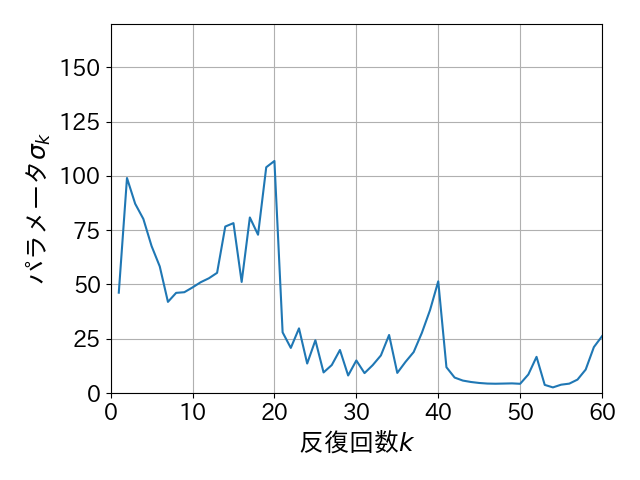
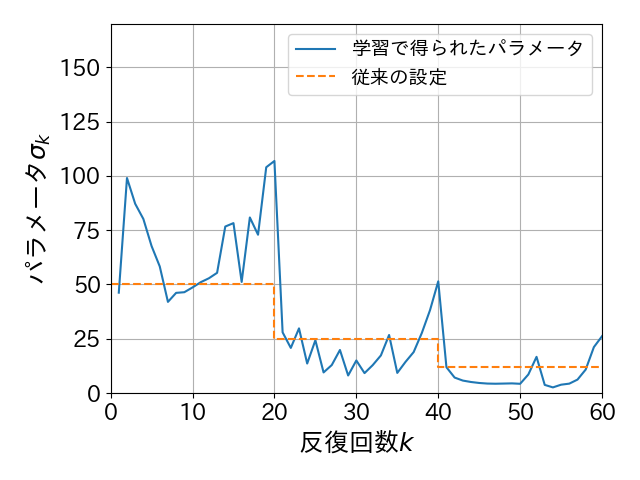
[fix] file
fix file

diff --git a/make_param_graph_ver2.py b/make_param_graph_ver2.py
@@ -19,8 +19,8 @@ def show_sigma(p):
 def show_param(p):
     return relu(p)
 
-projmeth = 'admm'
-accelerate = False
+projmeth = 'gap'
+accelerate = True
 if accelerate:
     datanames = [
         'ex_davis_method1_acc', 'davis_acc_train_add_noise', 'davis_acc_train_add_noise5'
@@ -45,12 +45,15 @@ for n, dataname in enumerate(datanames):
     # print(data.iloc[-1])
     if not os.path.exists(gragh_path):
         os.makedirs(gragh_path)
-        
+    
     plt.rcParams["font.size"] = 16
     x = [i+1 for i in range(60)]
+    y = [50,50,25,12]
+    x2 = [0,20,40,60]
     fig = plt.figure(n)
     if parameter_name == "sigma":
-        plt.plot(x, show_sigma(data.iloc[-1]), linestyle = "-")
+        plt.plot(x, show_sigma(data.iloc[-1]), linestyle = "-", label = '学習で得られたパラメータ')
+        plt.step(x2, y, linestyle = "--", label = '従来の設定')
         # plt.plot(show_sigma(data.iloc[403]), linestyle = "-")
     else:
         plt.plot(x, show_param(data.iloc[-1]), linestyle = "-")
@@ -60,6 +63,7 @@ for n, dataname in enumerate(datanames):
     plt.xlim([0, 60])
     plt.xlabel("反復回数$k$", fontsize=18)
     plt.ylabel("パラメータ$\sigma_k$", fontsize=18)
+    plt.legend(loc = "upper right", fontsize=14)
     plt.tight_layout()
     plt.grid()
     curr_gragh_path = gragh_path + "{}.png".format(filename)
